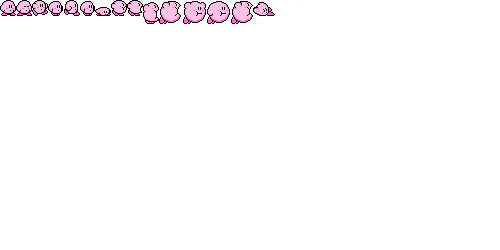
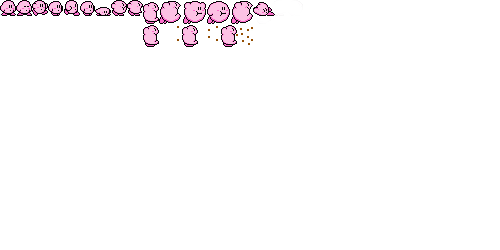
eating almost done

Changed region(s): [[0.36, 0.084, 0.51, 0.196], [0.27, 0.084, 0.33, 0.196]]

diff --git a/kirbymain.js b/kirbymain.js
@@ -131,6 +131,19 @@ var game = function () {
                 frames: [0],
                 rate: 0.1 / 1,
                 loop: false,
+                flip: false
+            },
+            eat_right: {
+                frames: [0, 1, 2],
+                rate: 1 / 100,
+                flip: false,
+                loop: true
+            },
+            eat_left: {
+                frames: [0, 1, 2],
+                rate: 1 / 100,
+                flip: "x",
+                loop: true
             },
             die: {
                 frames: [12],
@@ -146,47 +159,42 @@ var game = function () {
                     sheet: "kirbyR", // Setting a sprite sheet sets sprite width and height
                     x: 180, // You can also set additional properties that can
                     y: -10, // be overridden on object creation
-                    dead: false,
-                    flying: false,
-                    swell: false,
-                    down: false,
-                    unswell: false,
+                    state: "",
                     swell_time: 0,
-                    attack: false,
                     reload: 0
                 });
-                this.add('2d, platformerControls, animation');
+                this.add('2d, platformerControls, animation, eat');
 
             },
             step: function (dt) {
-                if (this.p.flying)
+                if (this.p.state === "flying")
                     this.p.vy /= 2;
                 this.p.reload -= dt;
                 if (this.p.reload < 0)
                     this.p.reload = 0;
                 this.p.vx /= 2;
-                if (!this.p.dead) {
-                    if (this.p.vy < 0 && !this.p.flying && !this.p.attack) { //jump
+                if (this.p.state != "dead") {
+                    if (this.p.vy < 0 && this.p.state === "") { //jump
                         this.play("jump_" + this.p.direction);
-                    } else if (this.p.vy > 0 && !this.p.flying && !this.p.attack) {
+                    } else if (this.p.vy > 0 && this.p.state === "") {
                         this.play("fall_" + this.p.direction);
                         //if dies
                         if (this.p.y > 580) {
                             this.play("die");
-                            this.p.dead = true;
+                            this.p.state = "dead";
                             Q.stageScene("endGame", 1, {
                                 label: "You Died"
                             });
                         }
-                    } else if (this.p.vx > 0 && this.p.vy == 0 && !this.p.flying && !this.p.attack) {
+                    } else if (this.p.vx > 0 && this.p.vy == 0 && this.p.state === "") {
                         this.play("run_right");
-                    } else if (this.p.vx < 0 && this.p.vy == 0 && !this.p.flying && !this.p.attack) {
+                    } else if (this.p.vx < 0 && this.p.vy == 0 && this.p.state === "") {
                         this.play("run_left");
                     } else {
-                        if (!this.p.flying && !this.p.attack)
+                        if (this.p.state === "")
                             this.play("stand_" + this.p.direction);
                         else
-                            if (!this.p.attack)
+                            if (this.p.state === "flying")
                                 this.play("fly_" + this.p.direction);
                     }
                 } else {
@@ -199,9 +207,11 @@ var game = function () {
                         x: true,
                         y: false
                     });
-                if (Q.inputs['down'] && !this.p.flying && !this.p.attack) {
-                    this.p.down = true;
+                if (Q.inputs['down'] && this.p.state === "") {
+                    this.p.state = "down";
                     this.play("move_down");
+                } else if (this.p.state === "down" && !Q.inputs['down']) {
+                    this.p.state = "";
                 }
 
 
@@ -209,14 +219,15 @@ var game = function () {
                 this.swell_animation(dt);
                 this.unswell_animation(dt);
                 this.kick();
+
                 //when Z or SPACE is pressed
                 if (Q.inputs['fire']) {
                     //if Kirby is not flying and has not started swallowing air
-                    if (!this.p.flying && !this.p.swell) {
-                        this.p.swell = true; //start swallowing animation
+                    if (this.p.state === "") {
+                        this.p.state = "swell"; //start swallowing animation
                     }
                     //check if flies higher than possible
-                    if (this.p.flying) {
+                    if (this.p.state === "flying") {
                         if (this.p.y < 10) {
                             this.p.y = 10;
                         }
@@ -230,11 +241,16 @@ var game = function () {
                 }
 
                 if (Q.inputs['action']) {
-                    if (this.p.flying) {
+                    if (this.p.state === "flying") {
                         this.p.swell_time = 0;
-                        this.p.unswell = true;
+                        this.p.state = "unswell";
+                    } else if ((this.p.state === "" || this.p.state === "attack") && this.p.reload === 0) {
+                        this.attack(false);
                     }
-
+                } else {
+                    if (this.p.state === "attack") {
+                        this.attack(true);
+                    }
                 }
 
                 if (this.p.x >= 975 && this.p.x <= 982) {
@@ -255,7 +271,7 @@ var game = function () {
             },
             swell_animation: function (dt) {
                 //animation of getting bigger done in 3 steps
-                if (this.p.swell) {
+                if (this.p.state === "swell") {
                     this.p.swell_time += dt; //add time to change from step to step in animation
                     if (this.p.swell_time < 1 / 10) { // first two frames of Kirby opening mouth
                         this.play("start_swell_" + this.p.direction);
@@ -263,41 +279,43 @@ var game = function () {
                     if (this.p.swell_time >= 1 / 10 && this.p.swell_time < 2 / 10) {
                         // step of Kirby opening mouth, getting taller but not wider
                         this.p.sheet = "kirbySwell";
+                        this.size(true);
                         this.play("swell_" + this.p.direction);
                     }
                     if (this.p.swell_time >= 2 / 10 && this.p.swell_time < 3 / 10) {
                         // step of Kirby with mouth open, taller and wider
                         this.p.sheet = "kirbyFly";
+                        this.size(true);
                         this.play("start_fly_" + this.p.direction);
                     }
                     if (this.p.swell_time >= 3 / 10) {
                         //change state of animation from swallowing air to flying one where it only moves hands
-                        this.p.swell = false;
-                        this.p.flying = true;
+                        this.p.state = "flying";
                         this.p.sheet = "kirbyFly";
+                        this.size(true);
                     }
 
                 }
             },
             unswell_animation: function (dt) {
                 //same but when Kirby releases the air
-                if (this.p.unswell) {
+                if (this.p.state === "unswell") {
                     this.p.swell_time += dt; //add time to change from step to step in animation
                     if (this.p.swell_time < 1 / 10) {
                         this.play("start_fly_" + this.p.direction);
                     }
                     if (this.p.swell_time >= 1 / 10 && this.p.swell_time < 2 / 10) {
                         this.p.sheet = "kirbySwell";
+                        this.size(true);
                         this.play("swell_" + this.p.direction);
                     }
                     if (this.p.swell_time >= 2 / 10 && this.p.swell_time < 3 / 10) {
-
                         this.p.sheet = "kirbyR";
+                        this.size(true);
                         this.play("start_swell_" + this.p.direction);
                     }
                     if (this.p.swell_time >= 3 / 10) {
-                        this.p.unswell = false;
-                        this.p.flying = false;
+                        this.p.state = "";
                         this.p.swell_time = 0;
                     }
 
@@ -305,11 +323,12 @@ var game = function () {
 
             },
             kick: function () {
-                if (!this.p.flying && this.p.down == true && Q.inputs['action']) {
+                if ((this.p.state === "down" || this.p.state === "kick") && Q.inputs['action']) {
                     //kick
                     if (this.p.reload == 0) {
-                        this.p.attack = true;
+                        this.p.state = "kick"
                         this.p.sheet = 'kirbykick';
+                        this.size(true);
                         //    $.when($.ajax()).then(function () {
                         this.play("kick_" + this.p.direction);
                         var aux = this;
@@ -319,30 +338,29 @@ var game = function () {
                             this.p.vx += 150;
                         }
                         setTimeout(function () {
-                            aux.p.attack = false;
+                            aux.p.state = "";
                             aux.p.sheet = 'kirbyR';
-                            aux.p.down = false;
                             aux.p.reload = 0.1;
                         }, 300);
-
-                    } else
-                        this.p.down = false;
-
+                        
+                    }
                 }
             }
 
         });
         Q.component("enemy", {
             added: function () {
-                this.entity.on("bump.left,bump.right,bump.bottom", function (collision) {
-
-                    if (collision.obj.isA("Player") && !collision.obj.p.dead) {
-                        if (collision.obj.p.attack) {
+                this.entity.on("hit.sprite", function (collision) {
+                    if(collision.obj.state === "attack"){
+                        collision.distance += 16;
+                    }
+                    if (collision.obj.isA("Player") && collision.obj.p.state != "dead") {
+                        if (collision.obj.p.state === "attack" || collision.obj.p.state === "kick") {
                             this.destroy();
                         }
                         else {
                             collision.obj.play("die");
-                            collision.obj.p.dead = true;
+                            collision.obj.p.state = "dead";
                             collision.obj.p.vy = -500;
                             collision.obj.del("platformerControls");
                             Q.stageScene("endGame", 1, {
@@ -352,6 +370,31 @@ var game = function () {
                         //collision.obj.destroy();
                     }
                 });
+            }
+        });
+        Q.component("eat", {
+            added: function () {
+                this.entity.p.power = "eat";
+               
+            },
+            extend: {
+                attack: function (stop) {
+                    if (!stop) {
+                        this.del("platformerControls");
+                        this.p.state = "attack";
+                        this.p.sheet = "kirbyEat";
+                        this.size(true);
+                        this.play("eat_" + this.p.direction);
+                    } else {
+                        let direction = this.p.direction;
+                        this.p.sheet = "kirbyR";
+                        this.size(true);
+                        this.add("platformerControls");
+                        this.p.direction = direction;
+                        this.play("stand_" + this.p.direction);
+                        this.p.state = "";
+                    }
+                }
             }
         });
         Q.component("impact_enemy", { //change vy to vx and impact enemies should work
@@ -609,7 +652,6 @@ var game = function () {
                 x: true,
                 y: false
             });
-
             stage.insert(new Q.Enemy1({
                 x: 250,
                 y: 130
